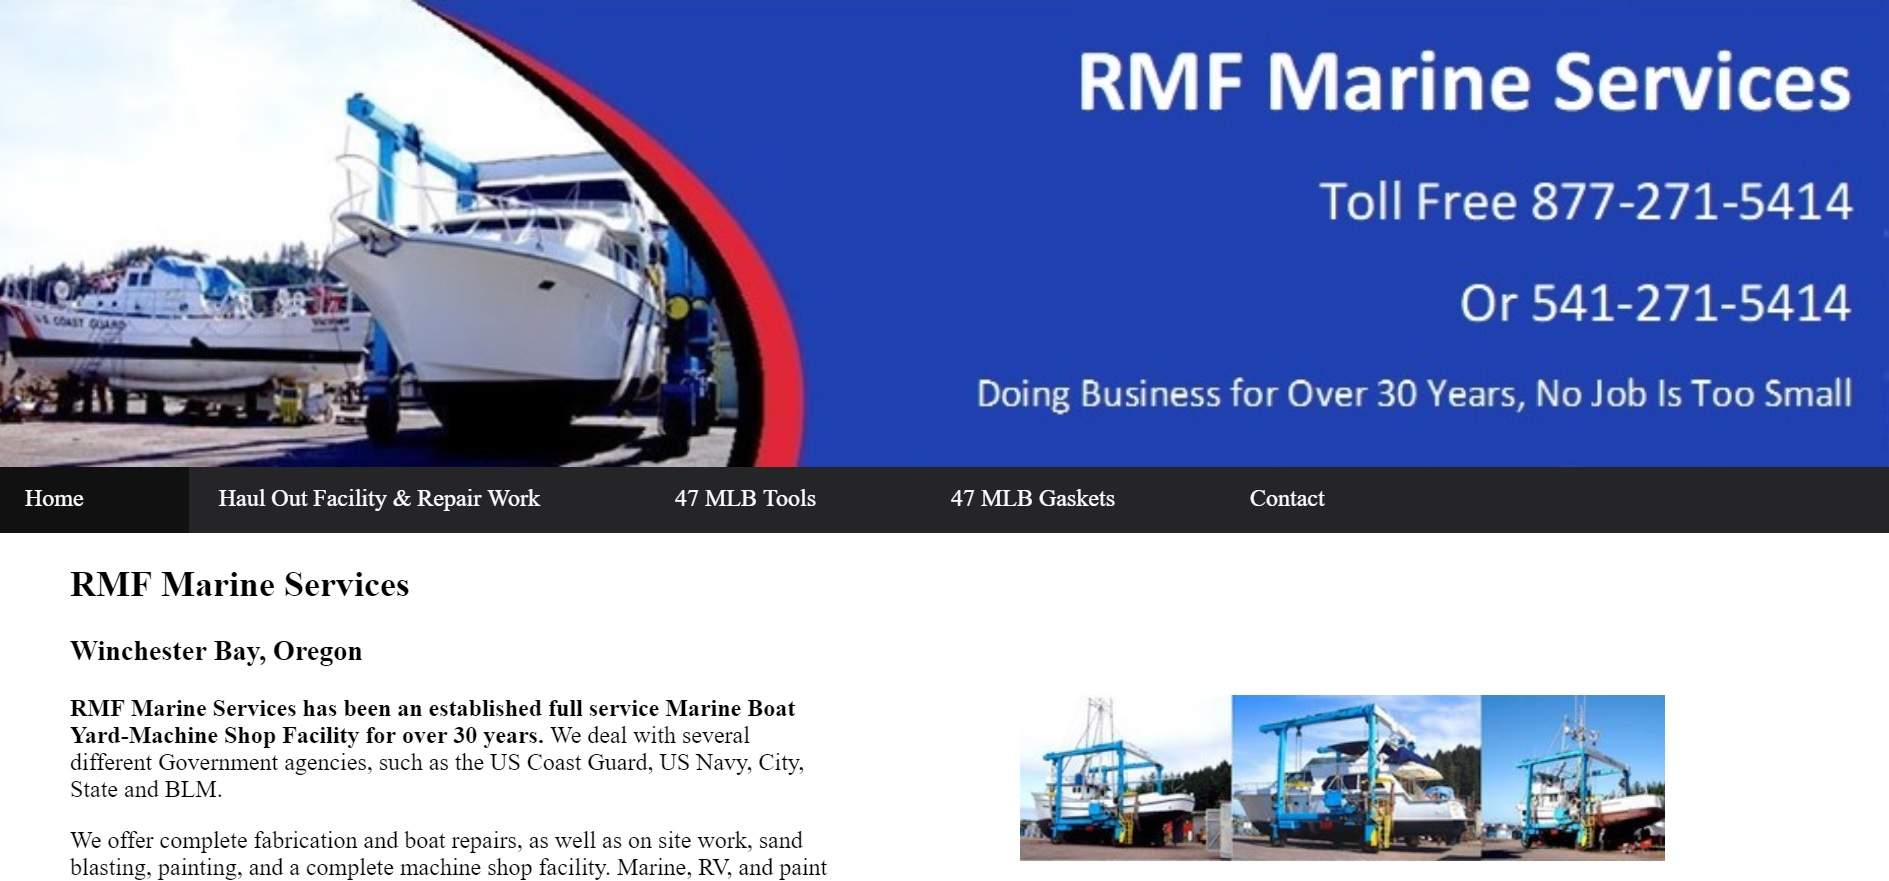
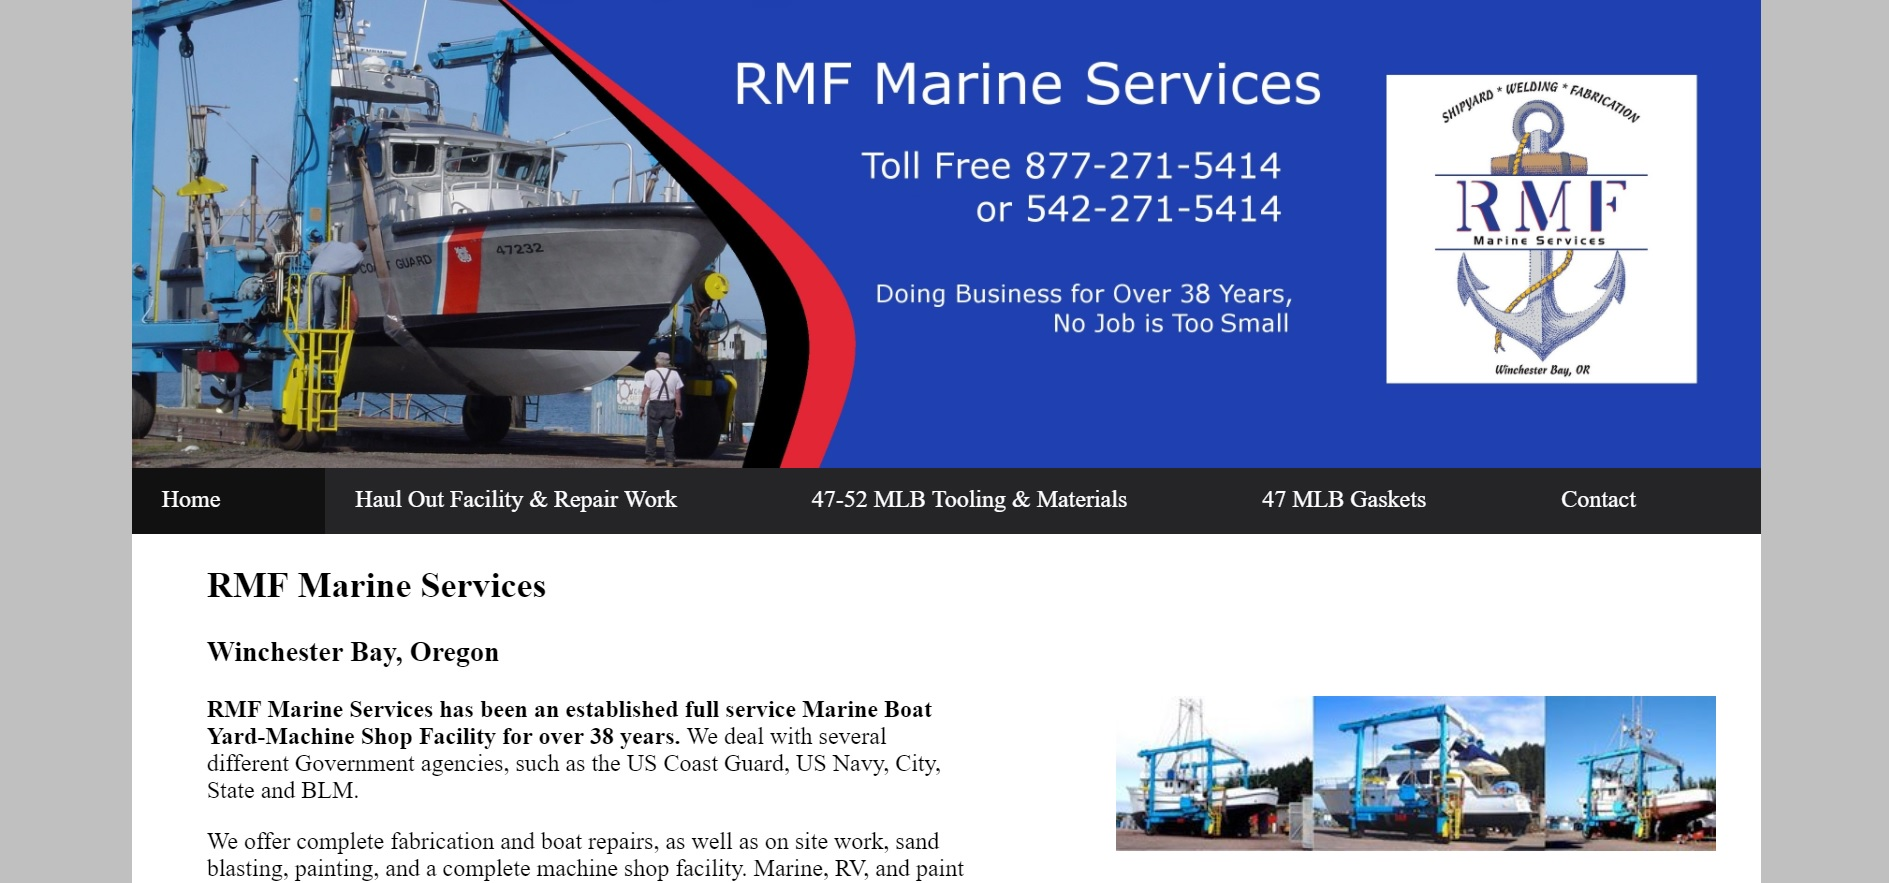
Added Pictures and Made More Responsive
Added new RMF picture and added Calculator App pic. Made contact buttons at bottom of page mobile responsive.

diff --git a/css/style.css b/css/style.css
@@ -80,6 +80,11 @@ body {
   width: 100%;
 }
 
+#portImage2 {
+  border-radius: 5px 5px 0px 0px;
+  width: 75%;
+}
+
 #caption {
   /*color: cyan;*/
   background-color: rgb(138, 43, 226);
@@ -128,7 +133,77 @@ hr {
 
 .profile-btns {
 	position: relative;
-	left: 35%;
+	left: 28%;
+}
+
+@media only screen and (max-width: 1500px) {
+  .profile-btns {
+  	position: relative;
+  	left: 38%;
+  }
+}
+
+@media only screen and (max-width: 1300px) {
+  .profile-btns {
+  	position: relative;
+  	left: 36%;
+  }
+}
+
+@media only screen and (max-width: 1100px) {
+  .profile-btns {
+  	position: relative;
+  	left: 33%;
+  }
+}
+
+@media only screen and (max-width: 1000px) {
+  .profile-btns {
+  	position: relative;
+  	left: 31%;
+  }
+}
+
+@media only screen and (max-width: 800px) {
+  .profile-btns {
+  	position: relative;
+  	left: 28%;
+  }
+}
+
+@media only screen and (max-width: 700px) {
+  .profile-btns {
+  	position: relative;
+  	left: 24%;
+  }
+}
+
+@media only screen and (max-width: 600px) {
+  .profile-btns {
+  	position: relative;
+  	left: 20%;
+  }
+}
+
+@media only screen and (max-width: 500px) {
+  .profile-btns {
+  	position: relative;
+  	left: 12%;
+  }
+}
+
+@media only screen and (max-width: 450px) {
+  .profile-btns {
+  	position: relative;
+  	left: 10%;
+  }
+}
+
+@media only screen and (max-width: 450px) {
+  .profile-btns {
+  	position: relative;
+  	left: 0;
+  }
 }
 
 .contact-title{

diff --git a/index.html b/index.html
@@ -12,7 +12,7 @@
 	<script src="https://maxcdn.bootstrapcdn.com/bootstrap/4.0.0-beta/js/bootstrap.min.js" type="text/javascript" defer></script>
 	<script src="https://ajax.googleapis.com/ajax/libs/jquery/3.2.1/jquery.min.js"></script>
 	<script src="js/projectsScroll.js" type="text/javascript" defer></script>
-	<script src="js/contactResize.js" type="text/javascript" defer></script>
+	<!--script src="js/contactResize.js" type="text/javascript" defer></script-->
 </head>
 
 <body>
@@ -160,6 +160,17 @@
 				<p style="color: white">Recreated a multipage website for a company. Updated the site and made it mobile responsive.</p>
 			</div>
 		</div>
+
+		<div class="col-lg-6">
+			<a href = "https://play.google.com/store/apps/details?id=com.the_snack_calculator.app" target="_blank">
+				<img src="images/calculator-app-google-play-store.jpg" class= "img-responsive" id = "portImage">
+	 		</a>
+			<div id = "caption" class = "text-center">
+				<h4 class="caption-header">Calculator App</h4>
+				<p style="color: white">A simple calculator app used for addition, subtraction, multiplication, and division. Available on the Google Play Store.</p>
+			</div>
+		</div>
+
 	</div>
 
   </div>
